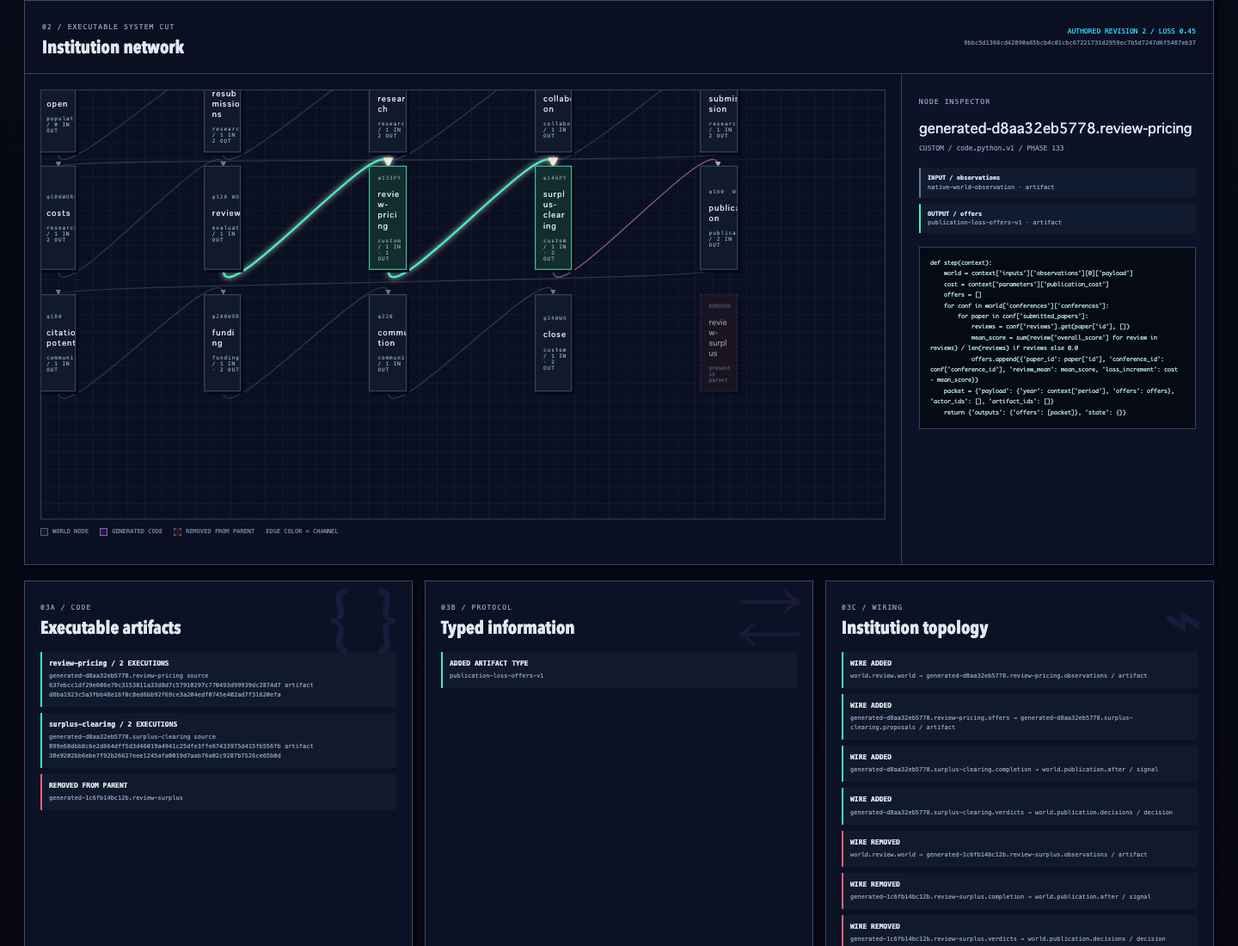
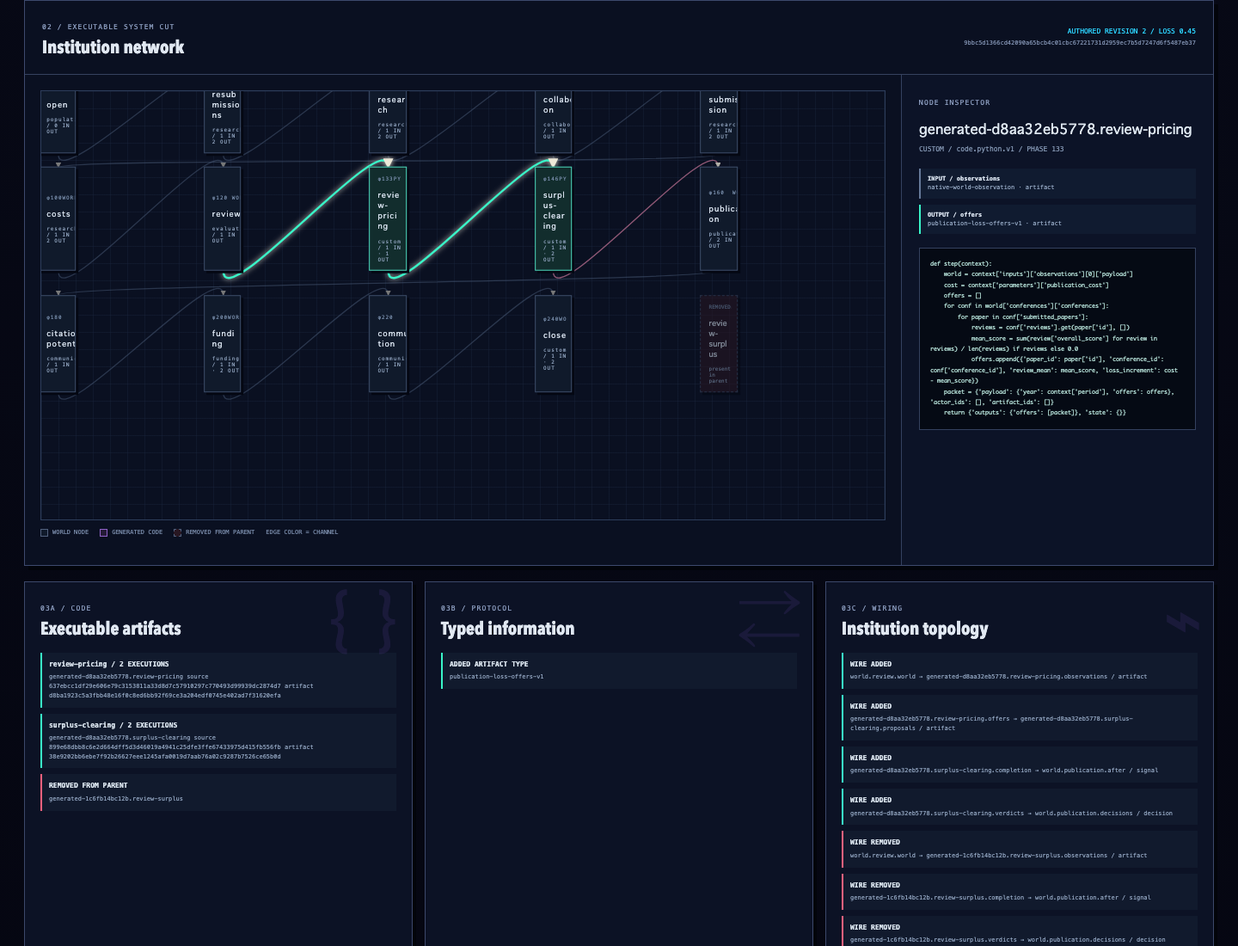
Harden adoption receipt identity checks

diff --git a/game-ui-v2/test/designLifecycle.test.ts b/game-ui-v2/test/designLifecycle.test.ts
@@ -1,15 +1,17 @@
 import { createHash } from "node:crypto";
 import { readFileSync } from "node:fs";
 import { describe, expect, it, vi } from "vitest";
-import { AdoptionController, parseDesignLifecycle, type AdoptionCandidate } from "../src/designLifecycleContract";
+import { AdoptionController, adoptionConfirmation, parseDesignLifecycle, type AdoptionCandidate } from "../src/designLifecycleContract";
 
 const snapshotPath = new URL("../public/data/native-design-lifecycle-v5.json", import.meta.url);
 const auditPath = new URL("../../research/results/native-external-objectives-v5-a1.json", import.meta.url);
 const fixture = () => JSON.parse(readFileSync(snapshotPath, "utf8"));
 const candidate: AdoptionCandidate = {
+  request_id: "request-1", request_sha256: "d".repeat(64),
   parent_observation_id: "observation-1", expected_checkpoint_sha256: "a".repeat(64), candidate_fingerprint: "b".repeat(64), candidate_system: {},
-  loss_spec_sha256: "c".repeat(64), state_actions: [], discard_deliveries: [], authoring: { kind: "explicit-test" },
+  loss_spec_sha256: "c".repeat(64), state_actions: {}, discard_deliveries: {}, authoring: { kind: "explicit-test" },
 };
+function deferred<T>() { let resolve!: (value: T) => void, reject!: (reason?: unknown) => void; const promise = new Promise<T>((ok, fail) => { resolve = ok; reject = fail; }); return { promise, resolve, reject }; }
 
 describe("audited native design lifecycle", () => {
   it("binds the portable UI snapshot to the exact audited v5 artifact", () => {
@@ -56,31 +58,90 @@ describe("same-society adoption state boundary", () => {
   it("is unavailable without a durable transport and never fakes success", async () => {
     const controller = new AdoptionController();
     expect(controller.state).toBe("unavailable");
-    await expect(controller.submit(candidate, true)).rejects.toThrow("not connected");
+    await expect(controller.submit(candidate, candidate.request_sha256)).rejects.toThrow("historical v5 snapshot");
     expect(controller.state).toBe("unavailable");
   });
 
-  it("requires confirmation, stays pending after dispatch, and completes only with migration receipt", async () => {
+  it("exposes the exact staged request hash for UI confirmation", () => {
+    expect(adoptionConfirmation(candidate)).toEqual({
+      request_id: "request-1", confirmed_request_sha256: "d".repeat(64), candidate_fingerprint: "b".repeat(64), expected_checkpoint_sha256: "a".repeat(64),
+    });
+    expect(() => adoptionConfirmation({ ...candidate, state_actions: [] as never })).toThrow("state_actions must be a record");
+    expect(() => adoptionConfirmation({ ...candidate, discard_deliveries: [] as never })).toThrow("discard_deliveries must be a record");
+  });
+
+  it("does not dispatch unless the user confirms the exact staged request hash", async () => {
+    const transport = { dispatch: vi.fn(), receipt: vi.fn() };
+    const controller = new AdoptionController(transport);
+    await expect(controller.submit(candidate, "e".repeat(64))).rejects.toThrow("confirmed_request_sha256");
+    expect(controller.state).toBe("confirm-required");
+    expect(transport.dispatch).not.toHaveBeenCalled();
+  });
+
+  it("binds pending identity and completes only on its verified durable receipt", async () => {
     const transport = {
-      dispatch: vi.fn(async () => ({ status: "pending" as const, request_id: "request-1", request_sha256: "d".repeat(64) })),
-      receipt: vi.fn(async () => ({ status: "adopted" as const, request_id: "request-1", request_sha256: "d".repeat(64), migration_receipt_sha256: "e".repeat(64) })),
+      dispatch: vi.fn(async (_candidate: AdoptionCandidate, confirmed: string) => ({ status: "pending" as const, request_id: "request-1", request_sha256: confirmed })),
+      receipt: vi.fn(async () => ({ status: "adopted" as const, request_id: "request-1", request_sha256: "d".repeat(64), migration_receipt_sha256: "e".repeat(64), verified_receipt: true as const })),
     };
     const controller = new AdoptionController(transport);
-    await expect(controller.submit(candidate, false)).rejects.toThrow("Explicit confirmation");
-    expect(transport.dispatch).not.toHaveBeenCalled();
-    await controller.submit(candidate, true);
+    await controller.submit(candidate, candidate.request_sha256);
+    expect(controller.state).toBe("pending");
+    expect(controller.requestId).toBe(candidate.request_id);
+    expect(controller.requestSha256).toBe(candidate.request_sha256);
+    expect(transport.dispatch).toHaveBeenCalledWith(candidate, candidate.request_sha256);
+    await controller.refresh();
+    expect(controller.state).toBe("completed");
+  });
+
+  it("keeps a backend pending receipt pending and permits a later verified poll", async () => {
+    const receipt = vi.fn()
+      .mockResolvedValueOnce({ status: "pending", request_id: candidate.request_id, request_sha256: candidate.request_sha256 })
+      .mockResolvedValueOnce({ status: "adopted", request_id: candidate.request_id, request_sha256: candidate.request_sha256, verified_receipt: true, migration_receipt_sha256: "e".repeat(64) });
+    const controller = new AdoptionController({ dispatch: async () => ({ status: "pending", request_id: candidate.request_id, request_sha256: candidate.request_sha256 }), receipt });
+    await controller.submit(candidate, candidate.request_sha256);
+    await controller.refresh();
     expect(controller.state).toBe("pending");
     await controller.refresh();
     expect(controller.state).toBe("completed");
   });
 
-  it("rejects an adopted status without a verified durable receipt hash", async () => {
-    const controller = new AdoptionController({
-      dispatch: async () => ({ status: "pending", request_id: "request-1", request_sha256: "d".repeat(64) }),
-      receipt: async () => ({ status: "adopted", request_id: "request-1", request_sha256: "d".repeat(64) }),
-    });
-    await controller.submit(candidate, true);
-    await expect(controller.refresh()).rejects.toThrow("verified durable migration receipt");
+  it.each([
+    [{ status: "adopted", request_id: "other-request", request_sha256: "d".repeat(64), verified_receipt: true, migration_receipt_sha256: "e".repeat(64) }, "identity"],
+    [{ status: "adopted", request_id: "request-1", request_sha256: "f".repeat(64), verified_receipt: true, migration_receipt_sha256: "e".repeat(64) }, "identity"],
+    [{ status: "adopted", request_id: "request-1", request_sha256: "d".repeat(64), migration_receipt_sha256: "e".repeat(64) }, "verified_receipt=true"],
+    [{ status: "adopted", request_id: "request-1", request_sha256: "d".repeat(64), verified_receipt: true, migration_receipt_sha256: "not-a-sha" }, "lowercase 64-hex"],
+  ] as const)("rejects unbound or unverified adopted receipt %#", async (receipt, message) => {
+    const controller = new AdoptionController({ dispatch: async () => ({ status: "pending", request_id: candidate.request_id, request_sha256: candidate.request_sha256 }), receipt: async () => receipt });
+    await controller.submit(candidate, candidate.request_sha256);
+    await expect(controller.refresh()).rejects.toThrow(message);
     expect(controller.state).toBe("failed");
+  });
+
+  it("prevents duplicate submit and early refresh while dispatch acknowledgement is delayed", async () => {
+    const pending = deferred<{ status: "pending"; request_id: string; request_sha256: string }>();
+    const transport = { dispatch: vi.fn(() => pending.promise), receipt: vi.fn() };
+    const controller = new AdoptionController(transport);
+    const first = controller.submit(candidate, candidate.request_sha256);
+    await expect(controller.submit(candidate, candidate.request_sha256)).rejects.toThrow("already active");
+    await controller.refresh();
+    expect(controller.state).toBe("pending");
+    expect(transport.receipt).not.toHaveBeenCalled();
+    pending.resolve({ status: "pending", request_id: candidate.request_id, request_sha256: candidate.request_sha256 });
+    await first;
+    expect(controller.state).toBe("pending");
+  });
+
+  it("coalesces overlapping refreshes so a reordered response cannot overwrite another request", async () => {
+    const delayed = deferred<{ status: "adopted"; request_id: string; request_sha256: string; verified_receipt: true; migration_receipt_sha256: string }>();
+    const transport = { dispatch: async () => ({ status: "pending" as const, request_id: candidate.request_id, request_sha256: candidate.request_sha256 }), receipt: vi.fn(() => delayed.promise) };
+    const controller = new AdoptionController(transport);
+    await controller.submit(candidate, candidate.request_sha256);
+    const first = controller.refresh();
+    await controller.refresh();
+    expect(transport.receipt).toHaveBeenCalledTimes(1);
+    delayed.resolve({ status: "adopted", request_id: candidate.request_id, request_sha256: candidate.request_sha256, verified_receipt: true, migration_receipt_sha256: "e".repeat(64) });
+    await first;
+    expect(controller.state).toBe("completed");
+    await expect(controller.submit({ ...candidate, request_id: "request-2", request_sha256: "f".repeat(64) }, "f".repeat(64))).rejects.toThrow("completed");
   });
 });

diff --git a/game-ui-v2/src/designLifecycleContract.ts b/game-ui-v2/src/designLifecycleContract.ts
@@ -68,35 +68,104 @@ export function parseDesignLifecycle(value: unknown): DesignLifecycleSnapshot {
 }
 
 export interface AdoptionCandidate {
+  request_id: string; request_sha256: string;
   parent_observation_id: string; expected_checkpoint_sha256: string; candidate_fingerprint: string; candidate_system: unknown;
-  loss_spec_sha256: string; state_actions: unknown[]; discard_deliveries: unknown[]; authoring: unknown;
+  loss_spec_sha256: string; state_actions: Record<string, unknown>; discard_deliveries: Record<string, string>; authoring: unknown;
 }
-export interface AdoptionReceipt { status: "adopted" | "failed"; request_id: string; request_sha256: string; migration_receipt_sha256?: string; error?: string }
-export interface AdoptionTransport { dispatch(candidate: AdoptionCandidate): Promise<{ status: "pending"; request_id: string; request_sha256: string }>; receipt(requestId: string): Promise<AdoptionReceipt> }
+export interface AdoptionReceipt {
+  status: "pending" | "adopted" | "failed"; request_id: string; request_sha256: string;
+  migration_receipt_sha256?: string; verified_receipt?: true; error?: string;
+}
+export interface AdoptionTransport {
+  dispatch(candidate: AdoptionCandidate, confirmedRequestSha256: string): Promise<{ status: "pending"; request_id: string; request_sha256: string }>;
+  receipt(requestId: string): Promise<AdoptionReceipt>;
+}
+
+const SHA256 = /^[0-9a-f]{64}$/;
+function exactSha256(value: unknown, label: string): string {
+  if (typeof value !== "string" || !SHA256.test(value)) throw new Error(`${label} must be a lowercase 64-hex SHA256`);
+  return value;
+}
+function nonEmptyString(value: unknown, label: string): string {
+  if (typeof value !== "string" || !value.trim()) throw new Error(`${label} must be a non-empty string`);
+  return value;
+}
+function record(value: unknown, label: string): Record<string, unknown> {
+  if (!value || typeof value !== "object" || Array.isArray(value)) throw new Error(`${label} must be a record`);
+  return value as Record<string, unknown>;
+}
+
+export interface AdoptionConfirmation {
+  request_id: string; confirmed_request_sha256: string; candidate_fingerprint: string; expected_checkpoint_sha256: string;
+}
+
+export function adoptionConfirmation(candidate: AdoptionCandidate): AdoptionConfirmation {
+  const requestId = nonEmptyString(candidate.request_id, "request_id");
+  const requestSha256 = exactSha256(candidate.request_sha256, "request_sha256");
+  const candidateFingerprint = exactSha256(candidate.candidate_fingerprint, "candidate_fingerprint");
+  const expectedCheckpointSha256 = exactSha256(candidate.expected_checkpoint_sha256, "expected_checkpoint_sha256");
+  exactSha256(candidate.loss_spec_sha256, "loss_spec_sha256");
+  nonEmptyString(candidate.parent_observation_id, "parent_observation_id");
+  record(candidate.candidate_system, "candidate_system");
+  record(candidate.state_actions, "state_actions");
+  const discards = record(candidate.discard_deliveries, "discard_deliveries");
+  if (Object.values(discards).some((reason) => typeof reason !== "string")) throw new Error("discard_deliveries values must be strings");
+  record(candidate.authoring, "authoring");
+  return { request_id: requestId, confirmed_request_sha256: requestSha256, candidate_fingerprint: candidateFingerprint, expected_checkpoint_sha256: expectedCheckpointSha256 };
+}
 
 export class AdoptionController {
   state: AdoptionState;
   requestId = "";
-  message = "Transport not connected. Viewing audited evidence cannot adopt a system.";
+  requestSha256 = "";
+  message = "Transport not connected. This historical v5 snapshot is not a live design session and cannot be adopted directly.";
+  private operation = 0;
+  private dispatching = false;
+  private refreshing = false;
   constructor(private readonly transport?: AdoptionTransport) { this.state = transport ? "confirm-required" : "unavailable"; }
-  async submit(candidate: AdoptionCandidate, explicitlyConfirmed: boolean): Promise<void> {
+  async submit(candidate: AdoptionCandidate, confirmedRequestSha256: string): Promise<void> {
     if (!this.transport) { this.state = "unavailable"; throw new Error(this.message); }
-    if (!explicitlyConfirmed) { this.state = "confirm-required"; throw new Error("Explicit confirmation of the exact staged request is required"); }
-    this.state = "pending"; this.message = "Dispatching exact request; no adoption receipt yet.";
+    if (this.dispatching || this.refreshing || this.state === "pending" || this.state === "completed") throw new Error("An adoption request is already active or completed");
+    const confirmation = adoptionConfirmation(candidate);
+    if (confirmedRequestSha256 !== confirmation.confirmed_request_sha256) {
+      this.state = "confirm-required";
+      throw new Error("confirmed_request_sha256 must exactly match the staged request SHA256 shown to the user");
+    }
+    const operation = ++this.operation;
+    this.requestId = confirmation.request_id;
+    this.requestSha256 = confirmation.confirmed_request_sha256;
+    this.dispatching = true;
+    this.state = "pending"; this.message = `Dispatching exact request ${this.requestSha256.slice(0, 16)} / no adoption receipt yet.`;
     try {
-      const pending = await this.transport.dispatch(candidate);
-      if (pending.status !== "pending" || !pending.request_id || !pending.request_sha256) throw new Error("Invalid pending adoption response");
-      this.requestId = pending.request_id;
-      this.message = `Pending durable migration receipt / ${pending.request_sha256.slice(0, 16)}`;
-    } catch (error) { this.state = "failed"; this.message = String(error); throw error; }
+      const pending = await this.transport.dispatch(candidate, confirmation.confirmed_request_sha256);
+      if (operation !== this.operation) return;
+      if (pending.status !== "pending" || pending.request_id !== this.requestId || pending.request_sha256 !== this.requestSha256) throw new Error("Pending adoption response does not match the exact confirmed request");
+      this.message = `Pending durable migration receipt / ${this.requestSha256.slice(0, 16)}`;
+    } catch (error) {
+      if (operation === this.operation) { this.state = "failed"; this.message = String(error); }
+      throw error;
+    } finally { if (operation === this.operation) this.dispatching = false; }
   }
   async refresh(): Promise<void> {
     if (!this.transport || this.state !== "pending" || !this.requestId) throw new Error("No pending adoption request");
+    if (this.dispatching) { this.message = `Dispatch acknowledgement pending / ${this.requestSha256.slice(0, 16)}`; return; }
+    if (this.refreshing) return;
+    const operation = this.operation, requestId = this.requestId, requestSha256 = this.requestSha256;
+    this.refreshing = true;
     try {
-      const receipt = await this.transport.receipt(this.requestId);
-      if (receipt.status === "adopted" && receipt.migration_receipt_sha256) { this.state = "completed"; this.message = `Durable migration receipt verified / ${receipt.migration_receipt_sha256.slice(0, 16)}`; return; }
+      const receipt = await this.transport.receipt(requestId);
+      if (operation !== this.operation || requestId !== this.requestId || requestSha256 !== this.requestSha256) return;
+      if (receipt.request_id !== requestId || receipt.request_sha256 !== requestSha256) throw new Error("Adoption receipt identity does not match the pending request");
+      if (receipt.status === "pending") { this.message = `Pending durable migration receipt / ${requestSha256.slice(0, 16)}`; return; }
       if (receipt.status === "failed") { this.state = "failed"; this.message = receipt.error || "Migration failed"; return; }
-      throw new Error("Completed adoption requires a verified durable migration receipt");
-    } catch (error) { this.state = "failed"; this.message = String(error); throw error; }
+      if (receipt.status === "adopted" && receipt.verified_receipt === true) {
+        const migrationHash = exactSha256(receipt.migration_receipt_sha256, "migration_receipt_sha256");
+        this.state = "completed"; this.message = `Durable migration receipt verified / ${migrationHash.slice(0, 16)}`; return;
+      }
+      throw new Error("Completed adoption requires backend verified_receipt=true and a valid durable migration receipt SHA256");
+    } catch (error) {
+      if (operation === this.operation && requestId === this.requestId && requestSha256 === this.requestSha256) { this.state = "failed"; this.message = String(error); }
+      throw error;
+    } finally { if (operation === this.operation) this.refreshing = false; }
   }
 }

diff --git a/game-ui-v2/lifecycle.html b/game-ui-v2/lifecycle.html
@@ -9,7 +9,7 @@
   </header>
 
   <section class="chronicle-hero" aria-labelledby="chronicle-title">
-    <div class="hero-copy"><p class="kicker">ARCOLOGY DISTRICT 08 / OBJECTIVE-CONDITIONED INSTITUTION DESIGN</p><h1 id="chronicle-title">TWO LOSSES.<br /><span>TWO SYSTEM PATHS.</span><br />ONE RESEARCH SOCIETY.</h1><p>Trace how an external designer changed executable institutions around a fixed local researcher world. Every loss, system, wire and code artifact below comes from the audited v5 development campaign.</p>
+    <div class="hero-copy"><p class="kicker">ARCOLOGY DISTRICT 08 / OBJECTIVE-CONDITIONED INSTITUTION DESIGN</p><h1 id="chronicle-title">TWO LOSSES.<br /><span>TWO SYSTEM PATHS.</span><br />ONE FROZEN RESEARCHER MODEL.</h1><p>Trace how an external designer changed executable institutions across separately reset native worlds with fixed local Qwen weights and fresh responses. Every loss, system, wire and code artifact below comes from the audited v5 development campaign.</p>
       <div class="hero-boundaries" role="note"><span>NOT HELD-OUT</span><span>ONE DEVELOPMENT SEED</span><span>NO SCIENTIFIC-VALUE CLAIM</span><span>NO ADOPTION EXECUTED</span></div>
     </div>
     <div class="hero-city" aria-label="Stylized pixel-art institution design district">
@@ -24,14 +24,14 @@
   <section class="actor-separation" aria-label="Designer and researcher separation">
     <article class="actor-card designer"><img src="./assets/noctiluca/production/system-government.svg" alt="" /><div><span>EXTERNAL DESIGNER FORGE</span><h2>Codex specialist agent</h2><p id="designer-meta"></p></div></article>
     <div class="actor-flow"><b>AUTHORS</b><span></span><em>CODE · PROTOCOL · WIRING</em><span></span><b>OBSERVES FEEDBACK</b></div>
-    <article class="actor-card researchers"><img src="./assets/noctiluca/production/institution-lab.svg" alt="" /><div><span>FIXED RESEARCHER SOCIETY</span><h2>Local Qwen3:8B</h2><p id="researcher-meta"></p></div></article>
+    <article class="actor-card researchers"><img src="./assets/noctiluca/production/institution-lab.svg" alt="" /><div><span>RESET NATIVE WORLDS</span><h2>Fixed local Qwen3:8B model</h2><p id="researcher-meta"></p></div></article>
   </section>
 
   <section id="chronicle" class="chronicle-board" aria-labelledby="board-title">
     <header class="board-header"><div><span class="section-tag">01 / LOSS-CONDITIONED DESIGN PATH</span><h2 id="board-title">Select an objective. Inspect every observed system.</h2></div><div id="arm-switch" class="arm-switch" role="group" aria-label="Audited loss arm"></div></header>
     <div class="loss-readout"><div><small>EXPLICIT LOSS</small><strong id="loss-formula"></strong></div><p id="loss-interpretation"></p><div class="loss-direction"><span>OPTIMIZER</span><b>MINIMIZE ↓</b></div></div>
     <div class="path-deck"><svg id="loss-chart" class="loss-chart" role="img" aria-label="Audited loss path"></svg><div id="system-stations" class="system-stations"></div></div>
-    <p class="path-note">Station values are observed on the same development seed. They are not held-out estimates or independent replicates. A later tie does not displace the first minimum.</p>
+    <p class="path-note">Authored candidates ran in separately reset physical worlds with fresh Qwen responses. The baseline physical run was shared and cross-scored, so these are not independent replicates or held-out estimates. A later tie does not displace the first minimum.</p>
   </section>
 
   <section class="system-bay" aria-labelledby="system-bay-title">
@@ -51,7 +51,7 @@
 
   <section class="adoption-lock" aria-labelledby="adoption-title">
     <div class="lock-art" aria-hidden="true"><div class="lock-core">NO<br />LINK</div><span></span><span></span><span></span></div>
-    <div class="lock-copy"><span class="section-tag">05 / SAME-SOCIETY ADOPTION AIRLOCK</span><h2 id="adoption-title">Viewing is not adoption.</h2><p>This audited campaign ran each revision in a fresh world. A durable same-society migration requires an exact staged request, explicit confirmation, and a verified migration receipt.</p><label class="adoption-confirm"><input id="adoption-confirm" type="checkbox" disabled />I confirm the exact candidate fingerprint, parent observation, checkpoint, loss and state/queue actions.</label><button id="adoption-submit" type="button" disabled>TRANSPORT UNAVAILABLE // DO NOT ADOPT</button><p id="adoption-status" class="adoption-status" role="status"></p></div>
+    <div class="lock-copy"><span class="section-tag">05 / SAME-SOCIETY ADOPTION AIRLOCK</span><h2 id="adoption-title">Viewing is not adoption.</h2><p>This historical v5 snapshot is not a live design session. A durable same-society migration requires an exact staged request hash, explicit hash-bound confirmation, and a matching backend-verified migration receipt.</p><label class="adoption-confirm"><input id="adoption-confirm" type="checkbox" disabled />NO LIVE REQUEST HASH // historical evidence cannot be confirmed or adopted directly.</label><button id="adoption-submit" type="button" disabled>TRANSPORT UNAVAILABLE // DO NOT ADOPT</button><p id="adoption-status" class="adoption-status" role="status"></p></div>
     <ol class="adoption-states" aria-label="Adoption state contract"><li data-state="confirm-required">CONFIRM</li><li data-state="pending">PENDING</li><li data-state="completed">RECEIPT VERIFIED</li><li data-state="failed">FAILED</li></ol>
   </section>
 

diff --git a/game-ui-v2/src/designLifecycle.ts b/game-ui-v2/src/designLifecycle.ts
@@ -20,7 +20,7 @@ function renderHeader(): void {
   el("source-hash").textContent = `AUDIT ${short(snapshot.source.artifact_sha256, 18)}`;
   el("designer-meta").textContent = `${snapshot.experiment.designer.identity} / hash-bound manifest / provider identity self-reported, not authenticated`;
   const researchers = snapshot.experiment.researchers;
-  el("researcher-meta").textContent = `${researchers.population} researchers / seed ${researchers.seed} / ${researchers.years} years / ${researchers.responses_per_world} responses per world`;
+  el("researcher-meta").textContent = `${snapshot.experiment.physical_complete_runs} reset physical worlds / ${researchers.population} agents per world / ${researchers.responses_per_world} fresh responses per world`;
   el("source-meta").textContent = `SOURCE ${snapshot.source.source_commit.slice(0, 12)} // AUDIT ${snapshot.source.artifact_sha256.slice(0, 16)}`;
 }
 

diff --git a/game-ui-v2/test/screenshots.test.ts b/game-ui-v2/test/screenshots.test.ts
@@ -66,8 +66,8 @@ describe("deterministic intervention comparison artifacts", () => {
 });
 
 const lifecycleCaptures = {
[4 lines of base64/hex data omitted]
 };
 
 describe("audited native design lifecycle visual artifacts", () => {

diff --git a/research/tracks/native-design-lifecycle-ui-v6.md b/research/tracks/native-design-lifecycle-ui-v6.md
@@ -32,9 +32,12 @@ revision 1. The view never relabels the later system as a provisional winner.
 ## Actor and truth separation
 
 The UI explicitly separates the external Codex specialist institution designer
-from the five fixed local Qwen3:8B researchers. The author identity is
+from the fixed local Qwen3:8B researcher model. Each candidate uses a separately
+reset native world with fresh responses; it is not one persistent researcher
+society. The author identity is
 self-reported provenance, not authenticated provider identity. The five actual
-physical worlds produced 285 researcher responses; the shared baseline and
+physical worlds each contain five researcher agents and together produced 285
+researcher responses; the shared baseline and
 cross-scoring are not independent replicates.
 
 Persistent boundary labels state that this is one development seed, not
@@ -47,9 +50,16 @@ institution is designed; it does not establish that either proxy is desirable.
 
 The airlock is typed for `scienceutopia.native-society-design-session.v1` and
 models `unavailable -> confirm-required -> pending -> completed|failed`.
-Completion requires a verified durable migration receipt. The shipped page has
-no transport, keeps confirmation and submission disabled, and reports
-`UNAVAILABLE`; merely viewing an audited selected system cannot install it.
+Before dispatch, a live client must display and receive the exact staged
+`confirmed_request_sha256`; a boolean confirmation is insufficient. The
+controller binds that hash and request ID, rejects duplicate/reordered work,
+keeps backend `pending` polls pending, and completes only when an `adopted`
+response matches both identities and carries `verified_receipt=true` plus a
+valid 64-hex durable migration-receipt hash. State and delivery decisions use
+the session API's record-shaped contracts. The shipped page has no transport,
+keeps confirmation and submission disabled, and reports `UNAVAILABLE`; this
+historical v5 snapshot is not a live session and cannot install its selected
+system directly.
 The existing `/native-api/jobs` path creates fresh worlds and is deliberately
 not reused as same-society adoption.
 

diff --git a/game-ui-v2/screenshots/README.md b/game-ui-v2/screenshots/README.md
@@ -12,8 +12,8 @@ experiment or inference.
 
 | Capture | SHA-256 |
 |---|---|
[4 lines of base64/hex data omitted]
 
 ## Common-Split Relay v1
 
